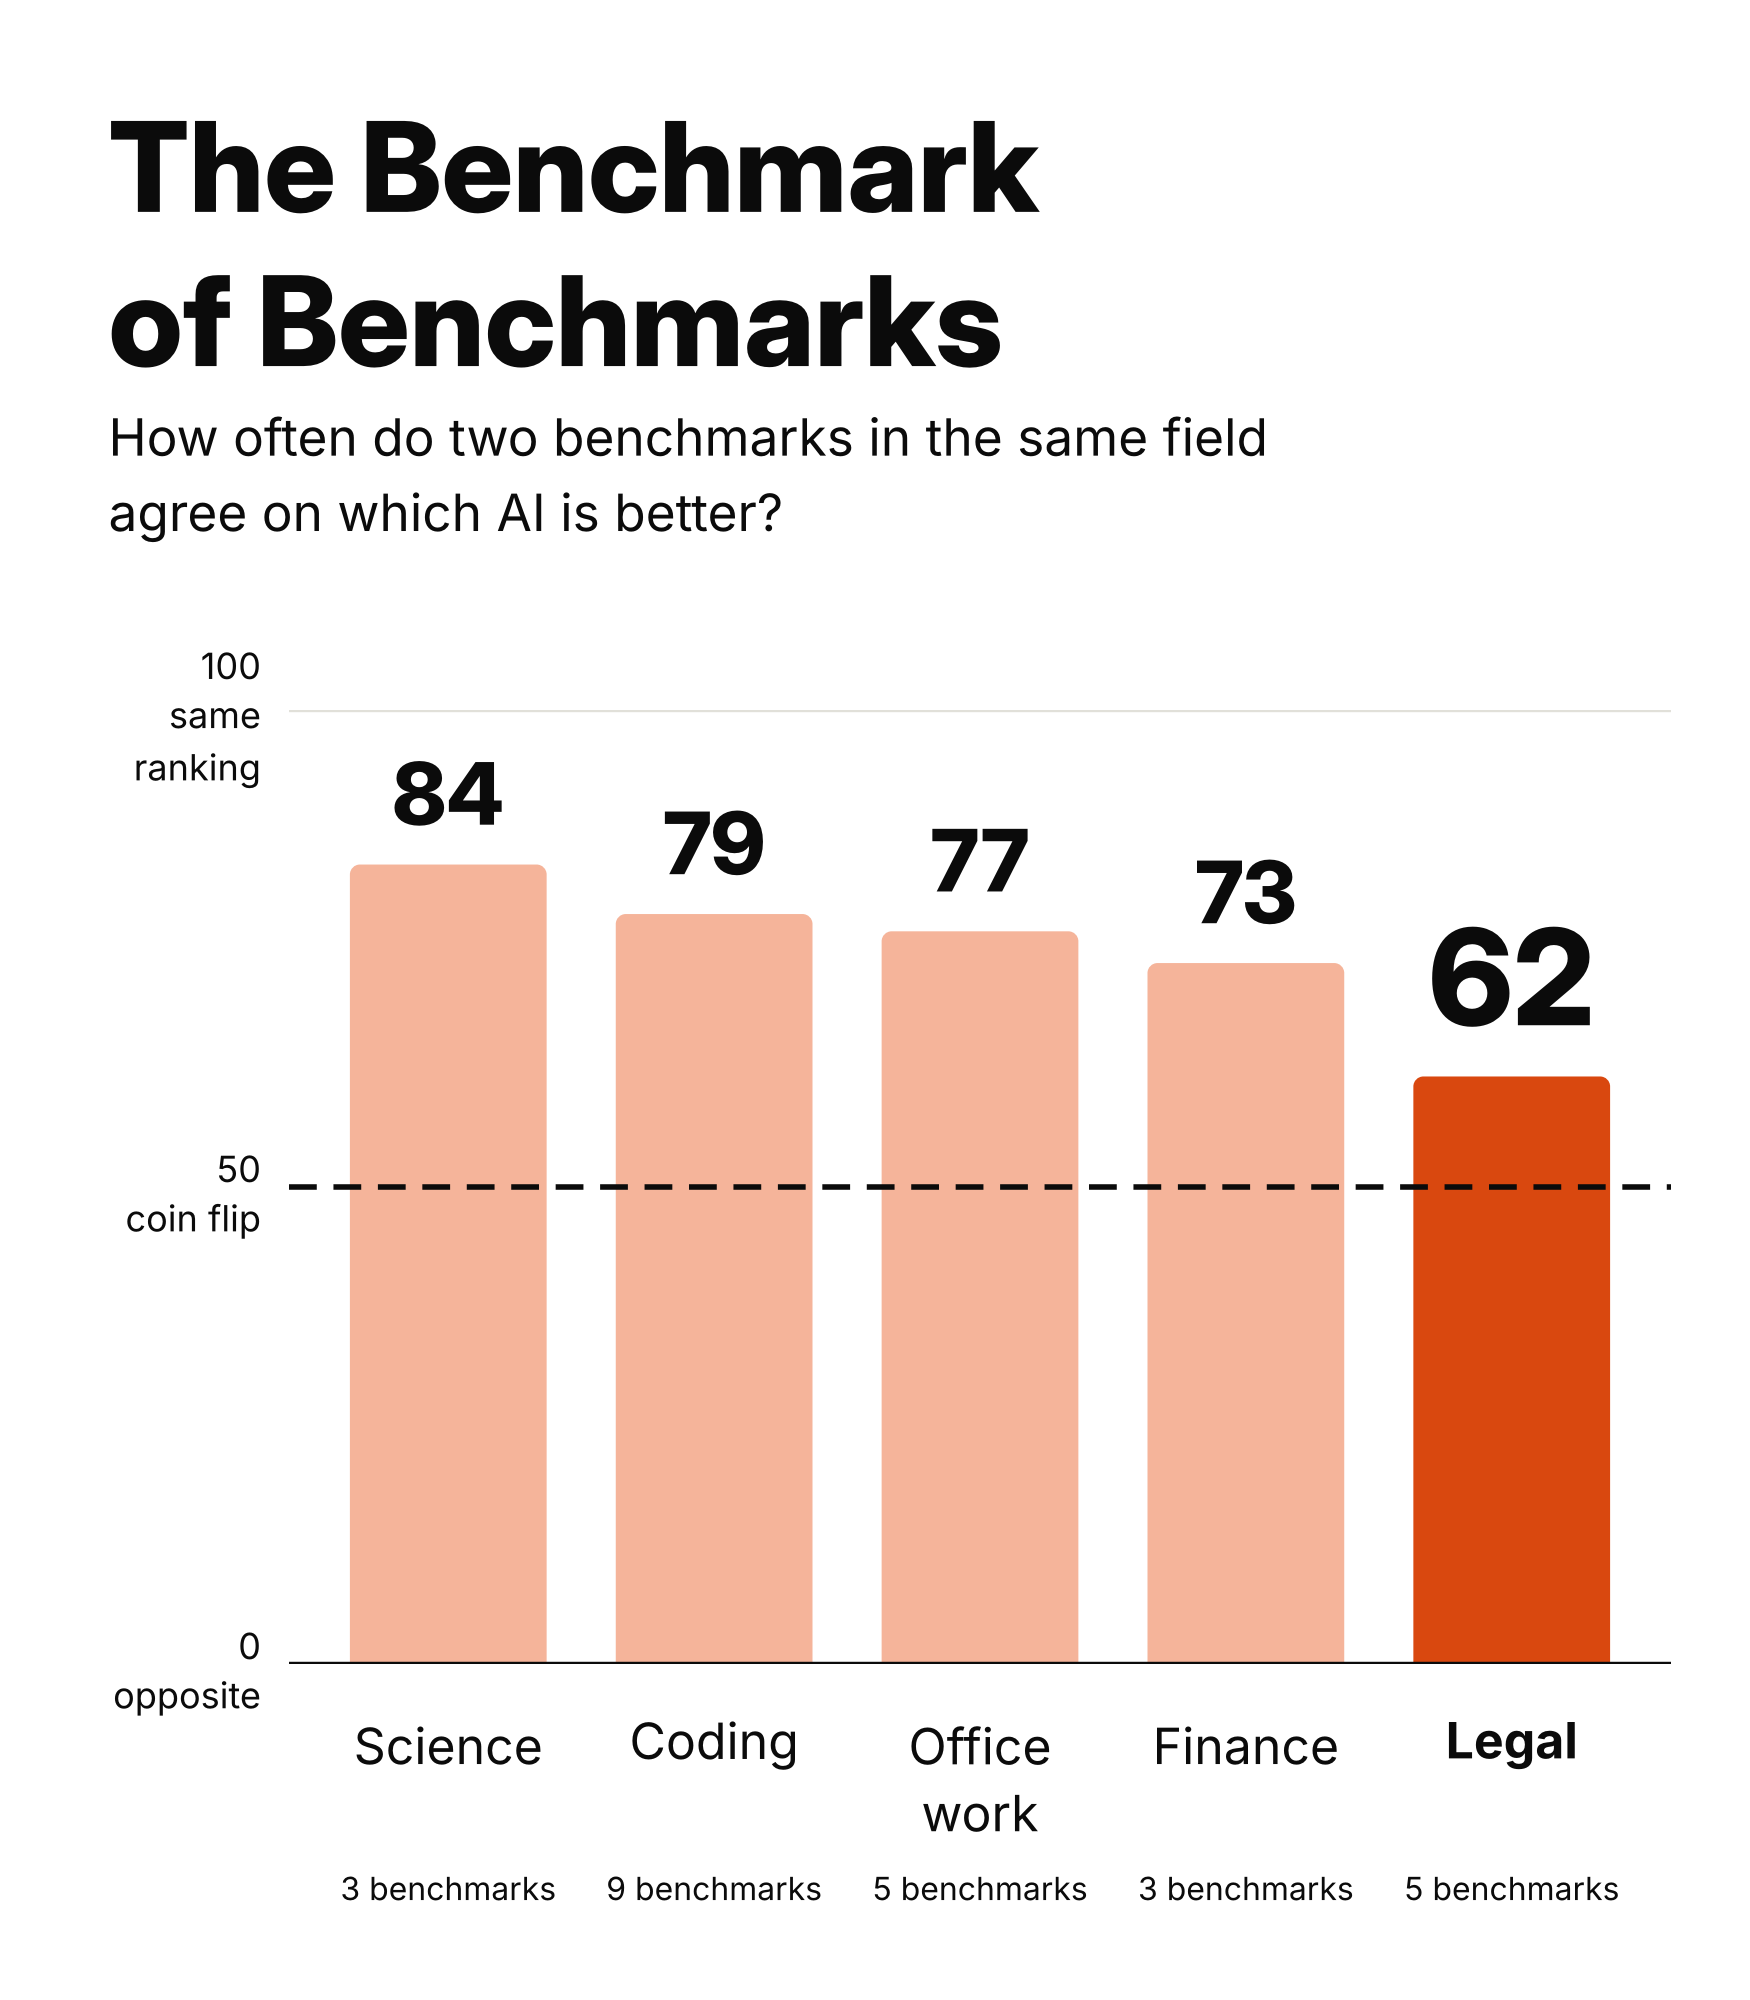
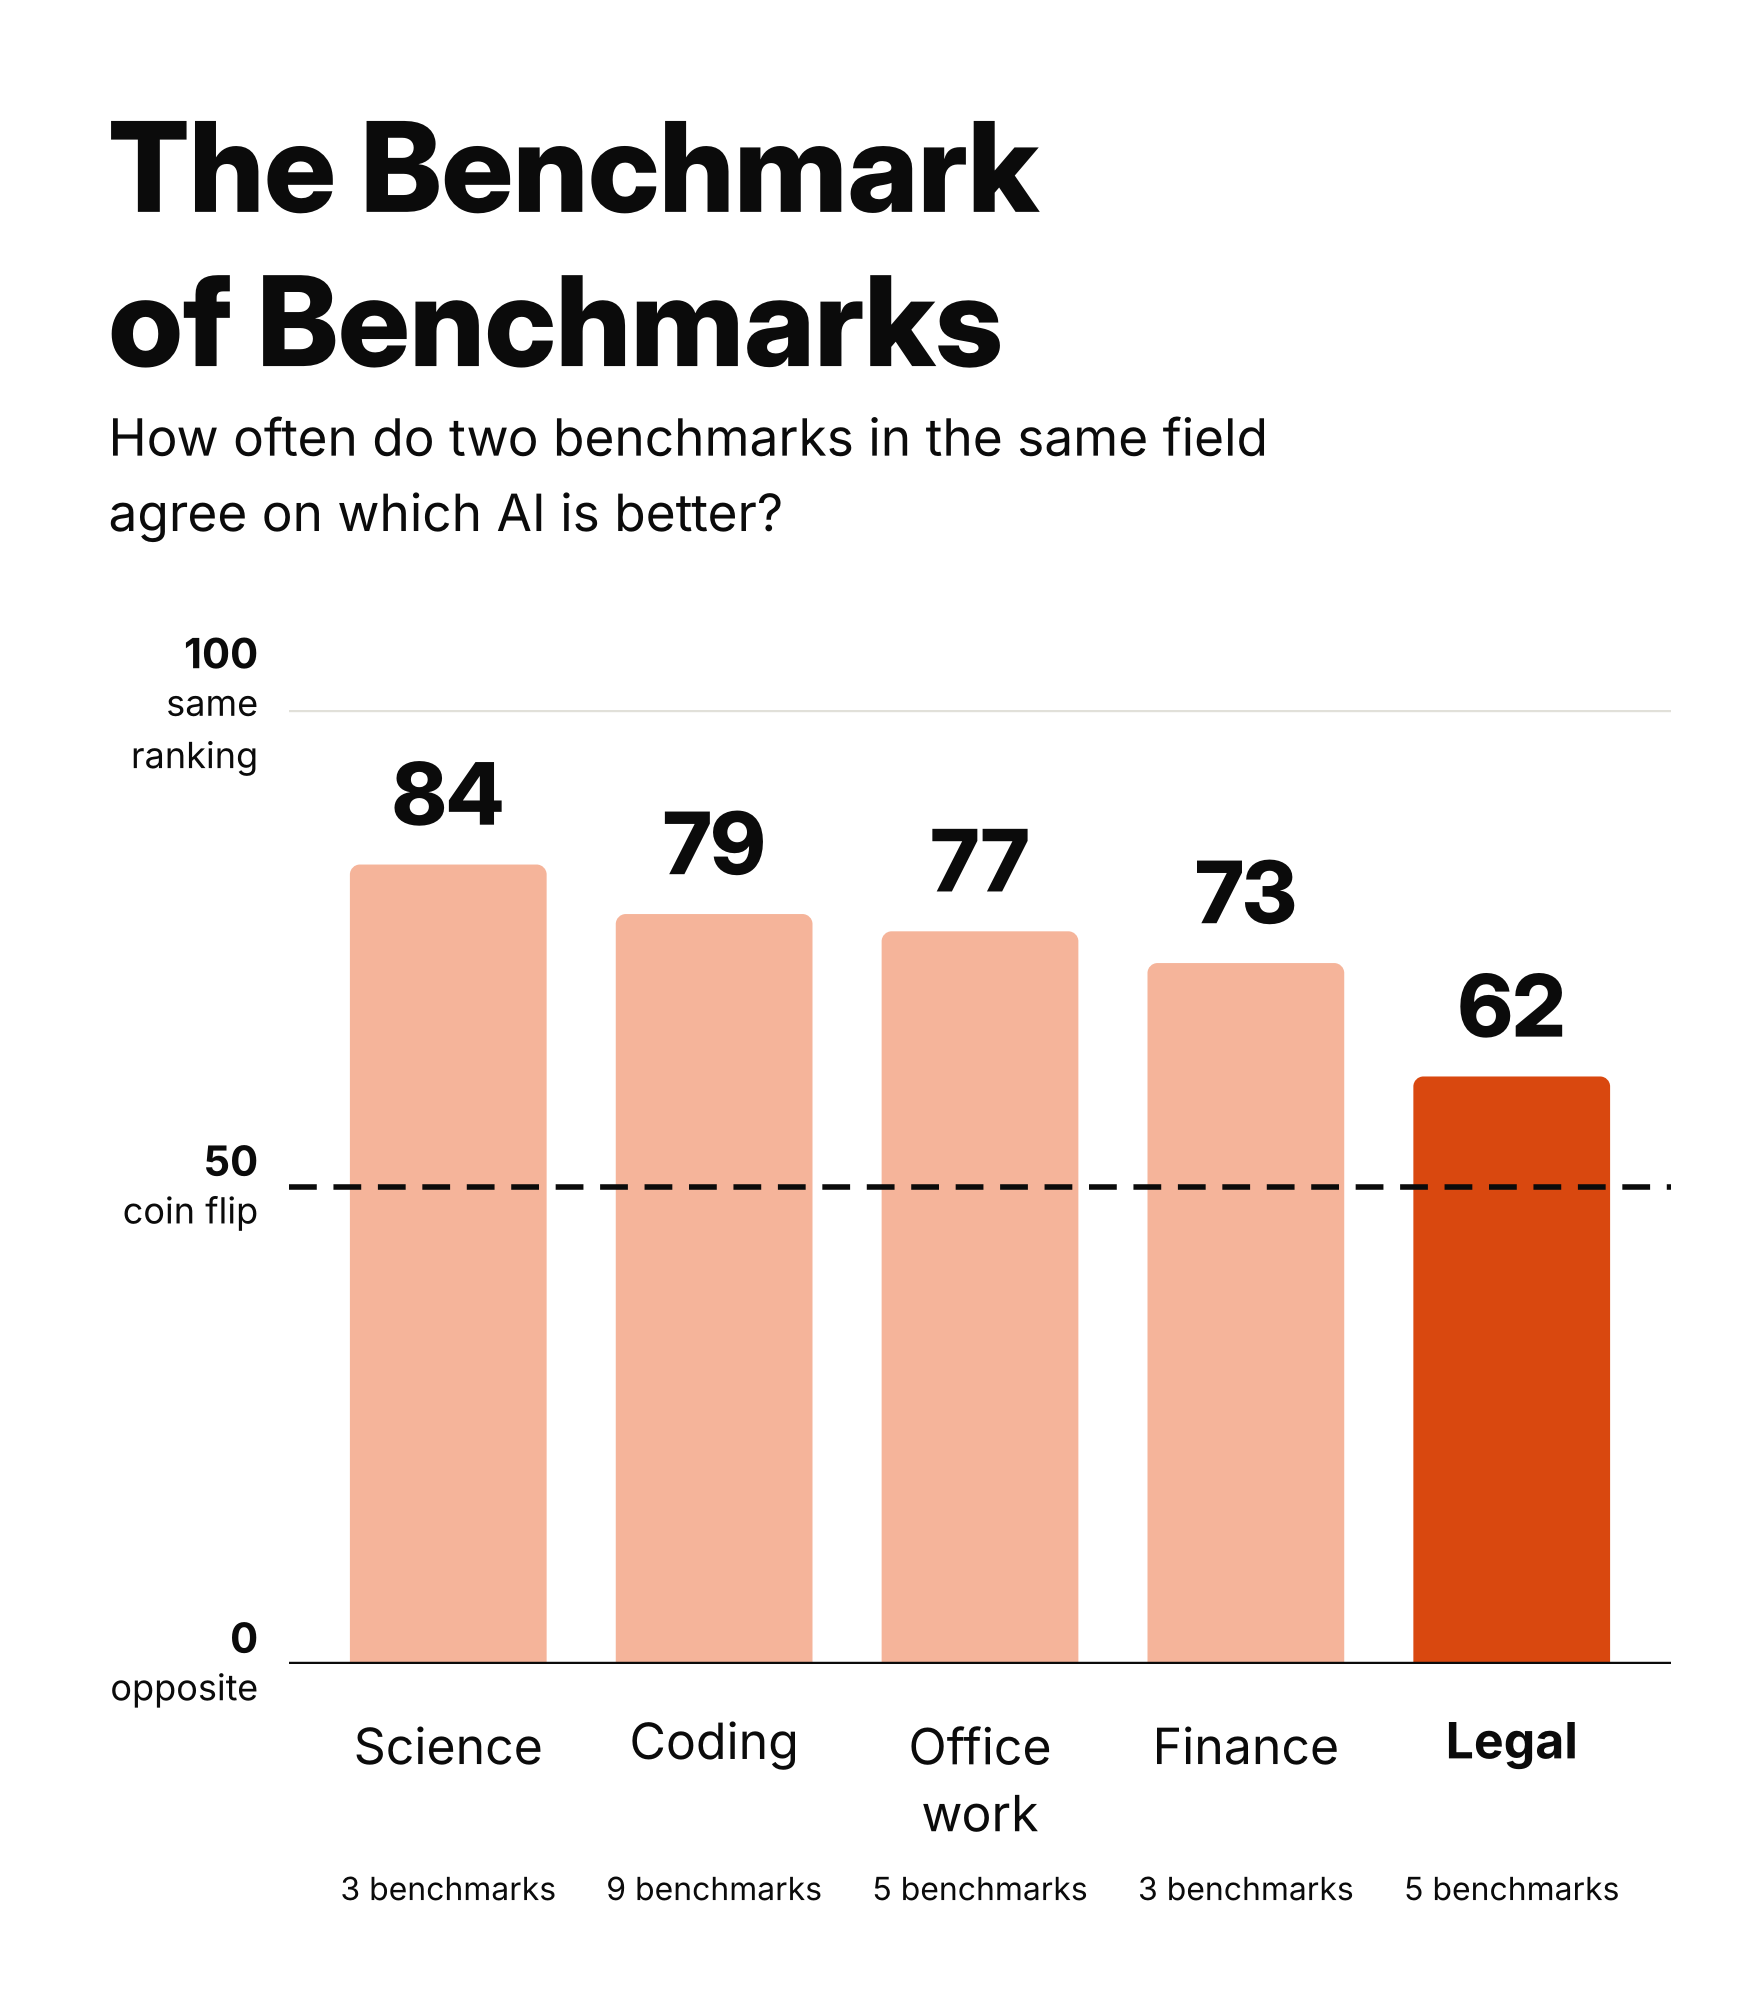
Slides: one-line title on slide 2, equal number sizes, bold axis numbers
Claude-Session: https://claude.ai/code/session_01TmipKRsNqkBmauKHC5vEDZ

diff --git a/benchmark-agreement/scripts/slides_v2.py b/benchmark-agreement/scripts/slides_v2.py
@@ -23,45 +23,49 @@ def rbar(ax,x,w,y0,y1,color,r=10,z=3):
     ax.add_artist(PathPatch(Path(V,Cc),facecolor=color,edgecolor='none',transform=IdentityTransform(),zorder=z))
 def frame(title,sub,n):
     fig,ax=plt.subplots(figsize=(W,H),dpi=DPI); fig.patch.set_facecolor(SURF); ax.set_facecolor(SURF)
-    plt.subplots_adjust(left=0.165,right=0.955,top=0.645,bottom=0.168)
+    shift=(2-(title.count('\n')+1))*0.064          # a one-line title pulls the subtitle and the chart up
+    plt.subplots_adjust(left=0.165,right=0.955,top=0.645+shift,bottom=0.168)
     ax.set_xlim(-0.6,n-0.4); ax.set_ylim(B0,100); ax.set_xticks([])
     for s in ax.spines.values(): s.set_visible(False)
     ax.tick_params(axis='y',length=0,pad=10)
     ax.axhline(100,color=GRID,lw=1.2,zorder=1)
     fig.text(0.062,0.955,title,fontsize=45,color=INK,ha='left',va='top',linespacing=1.02,**HEAVY)
-    fig.text(0.062,0.802,sub,fontsize=18.5,color=INK,ha='left',va='top',linespacing=1.3)
+    fig.text(0.062,0.802+shift,sub,fontsize=18.5,color=INK,ha='left',va='top',linespacing=1.3)
     return fig,ax
+def ylab(ax,y,num,cap):
+    two=cap.count('\n')>0; tr=ax.get_yaxis_transform()
+    ax.annotate(num,xy=(0,y),xycoords=tr,xytext=(-11,20.5 if two else 9.5),textcoords='offset points',ha='right',va='center',fontsize=15,fontweight='bold',color=INK,annotation_clip=False)
+    ax.annotate(cap,xy=(0,y),xycoords=tr,xytext=(-11,-8 if two else -9.5),textcoords='offset points',ha='right',va='center',fontsize=13,color=INK,linespacing=1.2,annotation_clip=False)
 def axis_labels(ax,extra=None):
-    DASH=(0,(5,3))
+    DASH=(0,(5,3)); ax.set_yticks([])
     if base=='coin':
-        t=[50,100]; l=['50\ncoin flip','100\nsame\nranking']; ax.axhline(50,color=INK,lw=2.4,zorder=6)
+        L=[(50,'50','coin flip'),(100,'100','same\nranking')]; ax.axhline(50,color=INK,lw=2.4,zorder=6)
     else:
-        t=[0,50,100]; l=['0\nopposite','50\ncoin flip','100\nsame\nranking']
+        L=[(0,'0','opposite'),(50,'50','coin flip'),(100,'100','same\nranking')]
         ax.axhline(0,color=INK,lw=1.6,zorder=6)
         if lum(NEU)<0.25:
-            ax.axhline(50,color=INK,lw=2.0,ls=DASH,zorder=2)    # black in the gaps, behind dark bars
-            ax.axhline(50,color=SURF,lw=2.0,ls=DASH,zorder=5)   # white where it crosses a dark bar
+            ax.axhline(50,color=INK,lw=2.0,ls=DASH,zorder=2); ax.axhline(50,color=SURF,lw=2.0,ls=DASH,zorder=5)
         else: ax.axhline(50,color=INK,lw=2.0,ls=DASH,zorder=5)
-    if extra: t.append(extra[0]); l.append(extra[1])
-    ax.set_yticks(t); ax.set_yticklabels(l,fontsize=13,color=INK,linespacing=1.2)
+    if extra: L.append(extra)
+    for y,num,cap in L: ylab(ax,y,num,cap)
 # ---- slide 1 ----
 F=[('Science',A['science'][0],A['science'][3]),('Coding',A['coding'][0],A['coding'][3]),('Office\nwork',A['office work'][0],A['office work'][3]),('Finance',A['finance'][0],A['finance'][3]),('Legal',C['legal'][1]*100,5)]
 fig,ax=frame("The Benchmark\nof Benchmarks","How often do two benchmarks in the same field\nagree on which AI is better?",len(F)); axis_labels(ax)
 for x,(lab,v,n) in enumerate(F):
     hot=lab=='Legal'
     rbar(ax,x,0.74,B0,v,ACC if hot else NEU)
-    ax.text(x,up(v),f"{v:.0f}",ha='center',va='bottom',fontsize=48 if hot else 31,color=INK,zorder=7,**HEAVY)
+    ax.text(x,up(v),f"{v:.0f}",ha='center',va='bottom',fontsize=31,color=INK,zorder=7,**HEAVY)
     ax.text(x,B0-0.05*span,lab,ha='center',va='top',fontsize=18,color=INK,linespacing=1.12,fontweight='bold' if hot else 'normal')
     ax.text(x,B0-0.215*span,f"{n} benchmarks",ha='center',va='top',fontsize=11.5,color=INK)
 fig.savefig(f"{OUT}/slide1{SUF}.png",facecolor=SURF); plt.close(fig)
 # ---- slide 2 ----
 NAME={'Vals Legal Research':'Vals\nLegal\nResearch','Mercor APEX law':'Mercor\nAPEX','Harvey LAB':'Harvey\nLAB','Legora BAR':'Legora\nBAR','Certera':'Certera'}
 legal=sorted(C['per_legal'].items(),key=lambda kv:NAME[kv[0]].lower()); coding=A['coding'][0]
-fig,ax=frame("Legal\nBenchmarks","How often does each one agree with the other four\non which AI is better?",len(legal)); axis_labels(ax,(coding,f"{coding:.0f}\ncoding"))
+fig,ax=frame("Legal Benchmarks","How often does each one agree with the other four\non which AI is better?",len(legal)); axis_labels(ax,(coding,f"{coding:.0f}",'coding'))
 ax.axhline(coding,color=NEU,lw=4,zorder=2)
 for x,(k,v) in enumerate(legal):
     rbar(ax,x,0.74,B0,v*100,ACC)
-    ax.text(x,up(v*100),f"{v*100:.0f}",ha='center',va='bottom',fontsize=30,color=INK,zorder=7,**HEAVY)
+    ax.text(x,up(v*100),f"{v*100:.0f}",ha='center',va='bottom',fontsize=31,color=INK,zorder=7,**HEAVY)
     ax.text(x,B0-0.05*span,NAME[k],ha='center',va='top',fontsize=16.5,color=INK,linespacing=1.12)
     if k=='Harvey LAB': ax.text(x,B0-0.215*span,'run by Vals',ha='center',va='top',fontsize=11.5,color=INK)
 fig.savefig(f"{OUT}/slide2{SUF}.png",facecolor=SURF); plt.close(fig)
